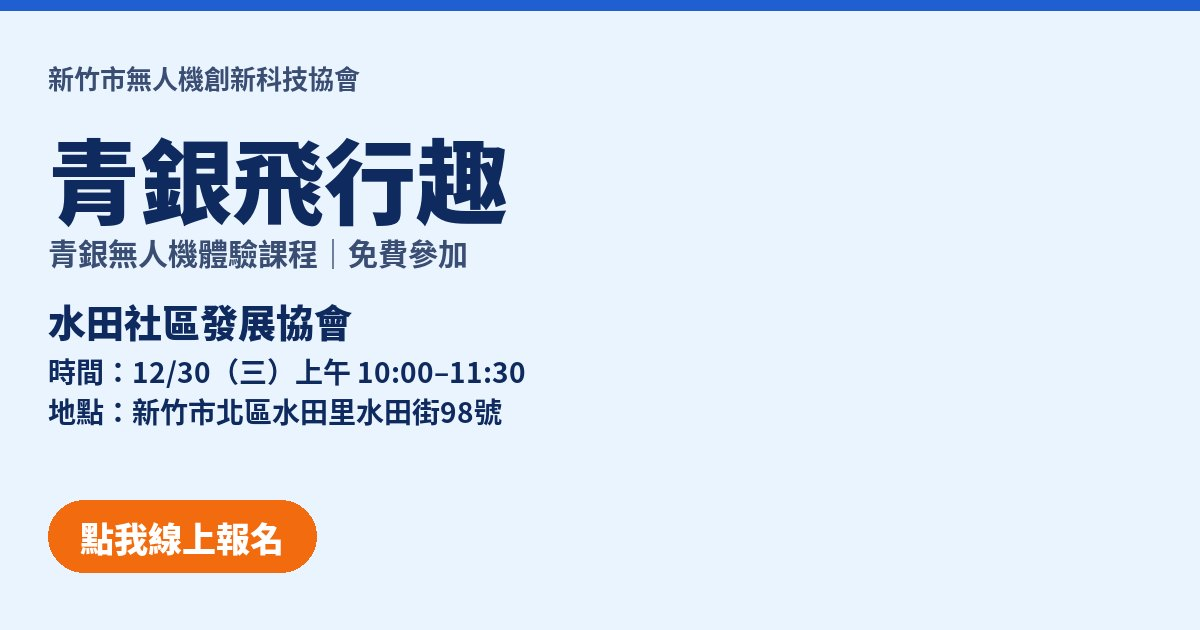
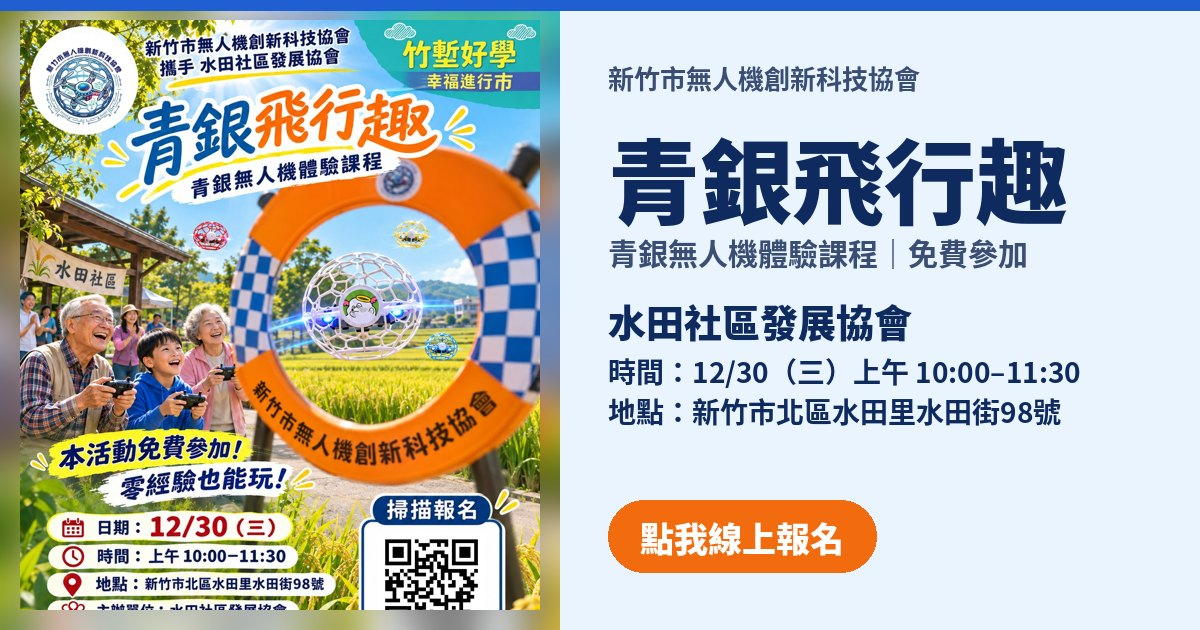
水田：海報 poster-shuitian.jpg（正式Logo＋QR 驗證 pse.is/9wbus8）、jpg v10、og 更新
Claude-Session: https://claude.ai/code/session_01Q3ebcZQSXoTsWUEz9vRoN7

diff --git a/index.html b/index.html
@@ -26,7 +26,7 @@
 // 有代碼 → 一打開就先下載海報，不等其他東西
 (function(){try{var c=(new URLSearchParams(location.search).get("c")||"").trim().toLowerCase();
 if(!c){location.replace("admin.html");return;}
-if(c){var l=document.createElement("link");l.rel="preload";l.as="image";l.href="poster-"+encodeURIComponent(c)+".jpg?v=9";document.head.appendChild(l);}}catch(e){}})();
+if(c){var l=document.createElement("link");l.rel="preload";l.as="image";l.href="poster-"+encodeURIComponent(c)+".jpg?v=10";document.head.appendChild(l);}}catch(e){}})();
 </script>
 <style>
 :root{
@@ -307,7 +307,7 @@ footer a{font-family:var(--f-round);font-weight:400;font-size:24px;color:var(--r
     setTitle(c);
     document.title = (evTitle(c).replace("|", "") || "活動") + "報名｜" + c.name;
     // 海報：poster-社區代碼.jpg，有就整張顯示在最上面
-    const src = "poster-" + encodeURIComponent(c.code) + ".jpg?v=9"; // 換海報時把 v 加 1（跟上面 preload 一起改）
+    const src = "poster-" + encodeURIComponent(c.code) + ".jpg?v=10"; // 換海報時把 v 加 1（跟上面 preload 一起改）
     const img = $("#poster");
     if (img.dataset.src !== src) {
       img.dataset.src = src;
